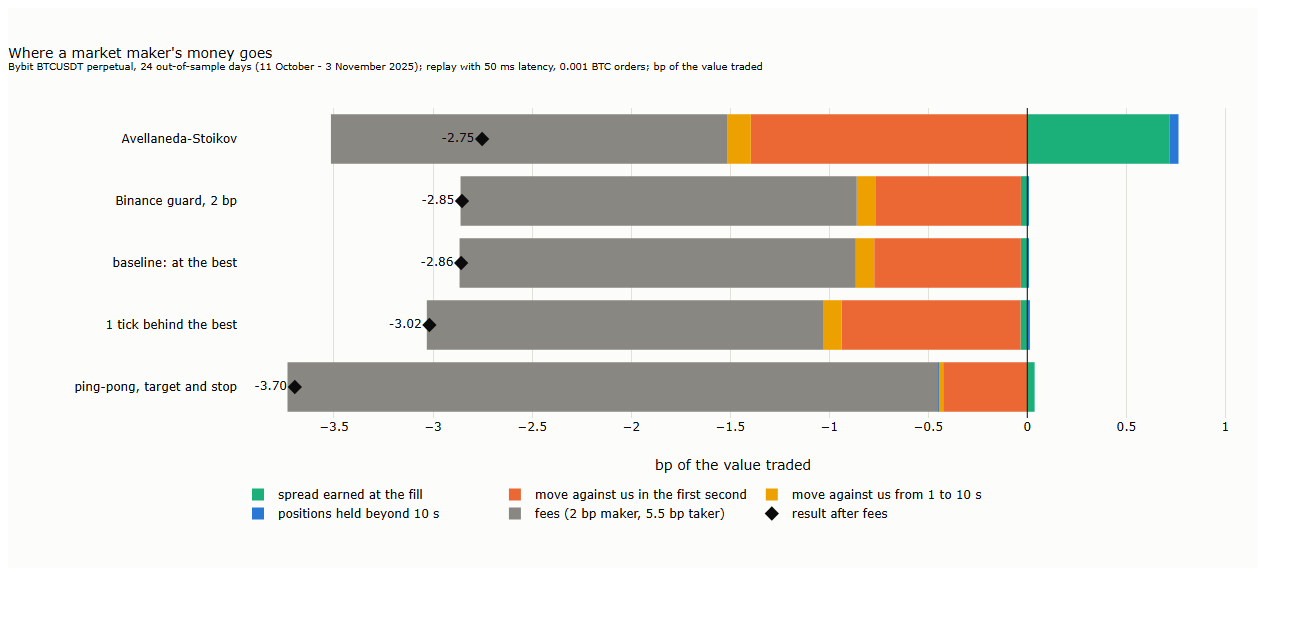
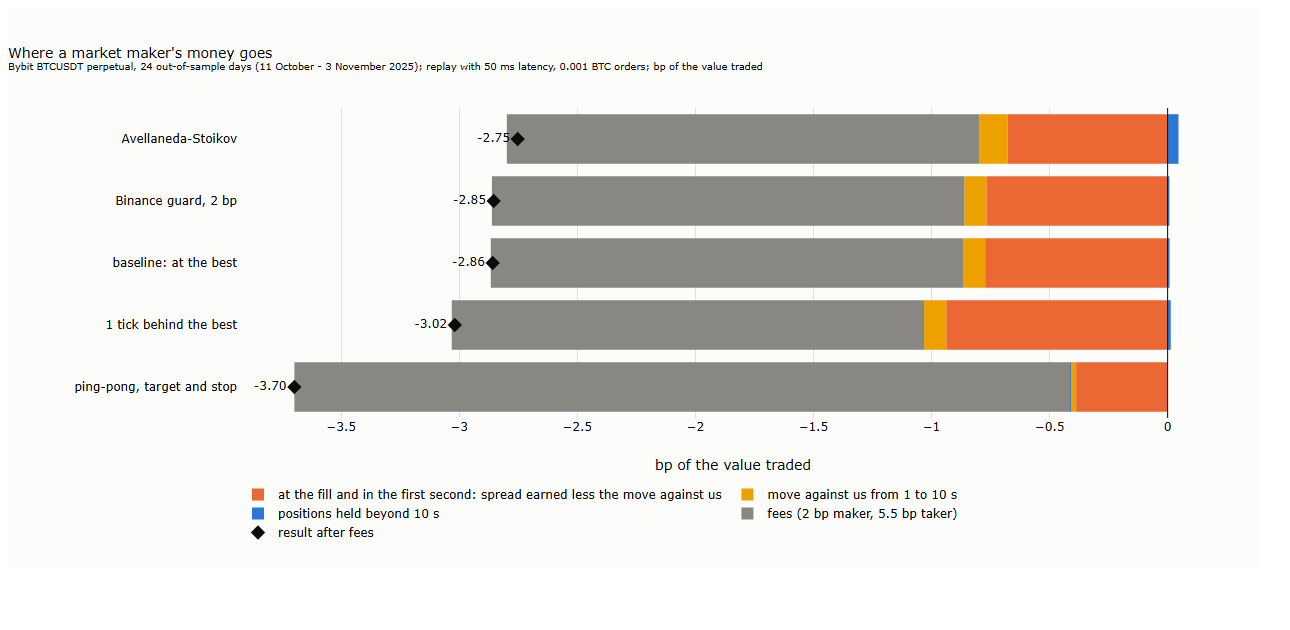
L24: lead, key chart and map of the lecture

diff --git a/lectures/24-market-making/scripts/l24_key_chart.py b/lectures/24-market-making/scripts/l24_key_chart.py
@@ -8,11 +8,12 @@ from trading_models.plotting import INK, MUTED, SERIES, apply_theme, save_figure
 
 NAMES = {"baseline": "baseline: at the best", "guard_2": "Binance guard, 2 bp", "as_5_2": "Avellaneda-Stoikov", "behind_1": "1 tick behind the best",
          "pp_e0_c110_n2": "ping-pong, target and stop"}
-PARTS = (("spread_bp", "spread earned at the fill", SERIES[2]), ("move_1s_bp", "move against us in the first second", SERIES[1]),
+PARTS = (("fill_1s_bp", "at the fill and in the first second: spread earned less the move against us", SERIES[1]),
          ("move_10s_bp", "move against us from 1 to 10 s", SERIES[4]), ("positions_bp", "positions held beyond 10 s", SERIES[0]),
          ("fees_bp", "fees (2 bp maker, 5.5 bp taker)", MUTED))
 
 apply_theme(); K = json.loads((L.RESULTS / "key.json").read_text(encoding="utf-8"))
+for k in K.values(): k["fill_1s_bp"] = k["spread_bp"] + k["move_1s_bp"]                  # the two cannot be told apart at the millisecond of a fill at the best
 D = sorted(NAMES, key=lambda d: K[d]["after_fee_bp"]); y = [NAMES[d] for d in D]
 fig = make_subplots(rows=1, cols=1)
 for key, name, c in PARTS:

diff --git a/lectures/24-market-making/lecture.md b/lectures/24-market-making/lecture.md
@@ -1,0 +1,25 @@
+# Lecture 24: Market Making on One Venue: What It Takes to Break Even
+
+*Systematic Trading: Lecture Notes (MSc) · draft, Nov 11, 2026 · Max Gnesi*
+
+Lecture 23 showed whom a quote on Bybit's BTCUSDT perpetual meets: mostly ordinary flow, and now and then a trader who takes the quote just after Binance has moved. This lecture puts our own quotes into that market. A market maker posts a bid and an ask, earns the spread when both are filled, and pays when the price moves against what it has just bought or sold. The question is not whether a clever rule beats the market, but what it takes to break even, and what a profitable maker must have that a replay of public data cannot show. Every design runs in Lecture 21's replay of the exchange, with 50 ms between a decision and its arrival, on 20 September to 3 November 2025; the hypotheses were fixed before any result was computed, and every change is dated ([results/hypotheses.md](results/hypotheses.md)).
+
+## 1. Where a market maker's money goes
+
+The lecture's result fits in one chart: five ways of quoting, and where each one's money went.
+
+![Where a market maker's money goes](figures/24_key.png)
+<sub><b>How to read the figure.</b> <b>Axes.</b> Result in bp of the value traded (x), one bar per quoting rule (y), over the 24 out-of-sample days (11 October to 3 November 2025). Each bar is split into the parts of the result: <b>orange</b>, at the fill and in the first second after it, the spread earned less the move of the mid against us; <b>yellow</b>, the move against us from 1 to 10 s; <b>blue</b>, the gain or loss on positions held beyond 10 s; <b>grey</b>, fees, 2 bp of the value for a resting order and 5.5 bp for a market order (Bybit's standard tier). <b>Diamond:</b> the result after fees. The rules are described in §3. Our calculation, Bybit BTCUSDT perpetual, 0.001 BTC orders.</sub>
+
+Every rule loses, and almost all of the loss before fees comes in the first second. A quote at the best price earns half the spread, but on bitcoin the spread is one tick, 0.1 USDT, about 0.005 bp per fill; what decides the result is that the orders which reach our quote are, on average, followed by a move against us of 0.4 to 0.9 bp within the second. The positions the rules carry beyond ten seconds cost nothing on average, which is why stops do not help (§3). Fees then add 2 bp on every unit of value for a rule that only rests, and more for one that closes with market orders: ping-pong halves the loss before fees, but 37% of what it trades goes through its stops at the taker fee, and after fees it does worst.
+
+Seen this way, a rule changes the result by a tenth of a basis point here and there, and the gap to break even is about 0.9 bp before fees, plus whatever fee is paid. The rest of the lecture asks where that gap could be closed:
+
+| § | Step | Question |
+|---|---|---|
+| 1 | Where the money goes | What does a quote earn, and what does it lose? |
+| 2 | A quoting rule as a family | Which choices define a market-making rule, and which did we test? |
+| 3 | The designs | What does each choice change: guard, depth, inventory skew, ping-pong, stops? (H1 to H4) |
+| 4 | Tests | Which designs beat the baseline out of sample, and over what range of settings? |
+| 5 | 10 October 2025 | Which rule does best through a crash, and where does each lose? A case study |
+| 6 | What it takes to break even | Fees, rebates, speed, queue position and hedging, against the 0.9 bp gap; what we cannot see |
